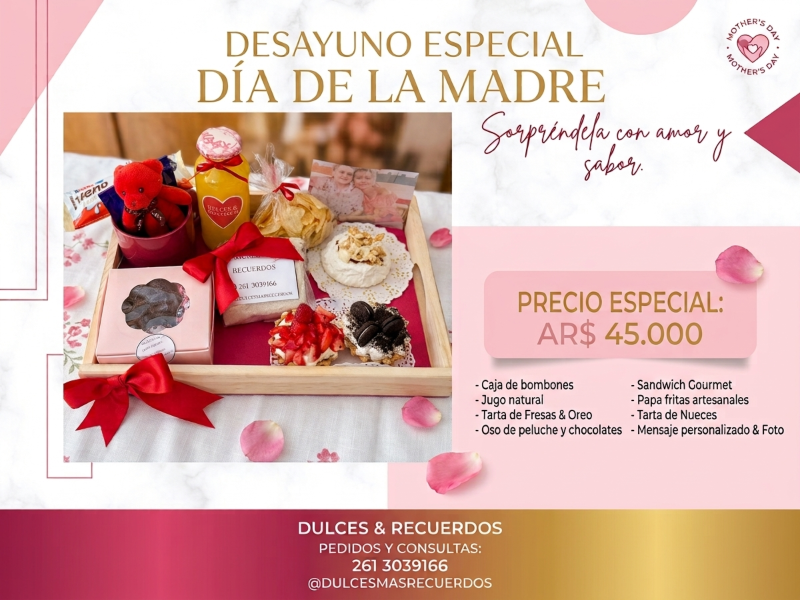
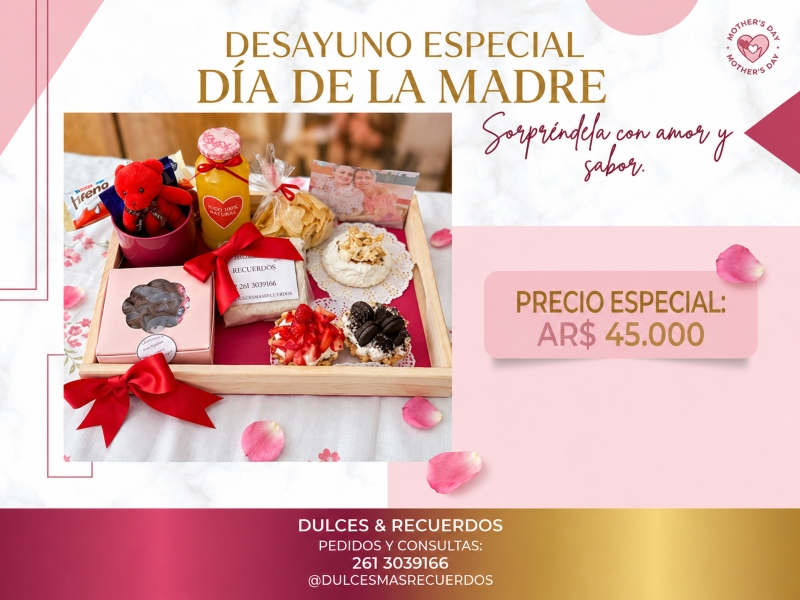
modificado texto y carrusel promo

diff --git a/index.html b/index.html
@@ -169,7 +169,9 @@
         <!-- ── Card 1 ── -->
         <article class="promo-especial__card reveal">
           <div class="promo-especial__imagen">
-            <div id="promoCarousel1" class="carousel slide promo-especial__carousel" data-bs-ride="false">
+
+            <!-- Carrusel principal -->
+            <div id="promoCarousel1" class="carousel slide promo-especial__carousel" data-bs-ride="carousel" data-bs-interval="3000">
               <div class="carousel-indicators">
                 <button type="button" data-bs-target="#promoCarousel1" data-bs-slide-to="0" class="active"></button>
                 <button type="button" data-bs-target="#promoCarousel1" data-bs-slide-to="1"></button>
@@ -193,15 +195,29 @@
                 <span class="carousel-control-next-icon" aria-hidden="true"></span>
               </button>
             </div>
+
+            <!-- Miniaturas Card 1 -->
+            <div class="promo-especial__thumbs">
+              <div class="promo-especial__thumb is-active" data-bs-target="#promoCarousel1" data-bs-slide-to="0">
+                <img src="./img/promo-madre-1.png" alt="Foto 1">
+              </div>
+              <div class="promo-especial__thumb" data-bs-target="#promoCarousel1" data-bs-slide-to="1">
+                <img src="./img/promo-madre-1b.png" alt="Foto 2">
+              </div>
+              <div class="promo-especial__thumb" data-bs-target="#promoCarousel1" data-bs-slide-to="2">
+                <img src="./img/promo-madre-1c.png" alt="Foto 3">
+              </div>
+            </div>
+
           </div>
           <div class="promo-especial__contenido">
-            <h3 class="promo-especial__nombre">Box Sorpresa Mamá</h3>
+            <h3 class="promo-especial__nombre">Bandeja Mediana Mamá</h3>
             <ul class="promo-especial__ingredientes">
-              <li>Café o té + medialunas artesanales y tostadas dulces</li>
-              <li>Mermeladas caseras + jugo natural exprimido</li>
-              <li>Tarjeta personalizada con dedicatoria especial</li>
-            </ul>
-            <p class="promo-especial__precio">$8.500</p>
+              <li>Bandeja c/patas, mantel, servilleta, taza cerámica, infusiones.</li>
+              <li>Brownie dulce de leche, crema y frutillas, tarta Oreo, Chocotorta, jugo en botella.</li>
+              <li>Bon o Bon, snack, dos facturas jamón y queso, Suculenta mini de regalo, tarjeta o foto personalizada.</li>
+            </ul>           
+            <p class="promo-especial__precio">$60.000</p>
             <a href="pages/pedidos.html" class="promo-especial__btn">Pedir ahora</a>
           </div>
         </article>
@@ -233,7 +249,9 @@
         <!-- ── Card 2 ── -->
         <article class="promo-especial__card reveal">
           <div class="promo-especial__imagen">
-            <div id="promoCarousel2" class="carousel slide promo-especial__carousel" data-bs-ride="false">
+
+            <!-- Carrusel principal -->
+            <div id="promoCarousel2" class="carousel slide promo-especial__carousel" data-bs-ride="carousel" data-bs-interval="3000">
               <div class="carousel-indicators">
                 <button type="button" data-bs-target="#promoCarousel2" data-bs-slide-to="0" class="active"></button>
                 <button type="button" data-bs-target="#promoCarousel2" data-bs-slide-to="1"></button>
@@ -241,13 +259,13 @@
               </div>
               <div class="carousel-inner" data-bs-toggle="modal" data-bs-target="#promoZoom2">
                 <div class="carousel-item active">
-                  <img src="./img/promo-madre-2.png" alt="Desayuno Para Dos">
+                  <img src="./img/promo-madre-2.png" alt="Promo Mamá Especial">
                 </div>
                 <div class="carousel-item">
-                  <img src="./img/promo-madre-2b.png" alt="Desayuno Para Dos - detalle">
+                  <img src="./img/promo-madre-2b.png" alt="Promo Mamá Especial - detalle">
                 </div>
                 <div class="carousel-item">
-                  <img src="./img/promo-madre-2c.png" alt="Desayuno Para Dos - contenido">
+                  <img src="./img/promo-madre-2c.png" alt="Promo Mamá Especial - contenido">
                 </div>
               </div>
               <button class="carousel-control-prev" type="button" data-bs-target="#promoCarousel2" data-bs-slide="prev">
@@ -257,15 +275,30 @@
                 <span class="carousel-control-next-icon" aria-hidden="true"></span>
               </button>
             </div>
+
+            <!-- Miniaturas Card 2 -->
+            <div class="promo-especial__thumbs">
+              <div class="promo-especial__thumb is-active" data-bs-target="#promoCarousel2" data-bs-slide-to="0">
+                <img src="./img/promo-madre-2.png" alt="Foto 1">
+              </div>
+              <div class="promo-especial__thumb" data-bs-target="#promoCarousel2" data-bs-slide-to="1">
+                <img src="./img/promo-madre-2b.png" alt="Foto 2">
+              </div>
+              <div class="promo-especial__thumb" data-bs-target="#promoCarousel2" data-bs-slide-to="2">
+                <img src="./img/promo-madre-2c.png" alt="Foto 3">
+              </div>
+            </div>
+
           </div>
           <div class="promo-especial__contenido">
-            <h3 class="promo-especial__nombre">Desayuno Para Dos — Mamá &amp; Vos</h3>
+            <h3 class="promo-especial__nombre">Promo Mamá Especial</h3>
             <ul class="promo-especial__ingredientes">
-              <li>Café, tés + medialunas, facturas y scones para dos</li>
-              <li>Mermeladas, queso crema + jugo natural para dos</li>
-              <li>Dedicatoria personalizada incluida</li>
+              <li>Caja de bombones y gomitas, jugo natural,tres mini tortas.</li>
+              <li>Oso de peluche,taza ceramica, sandwich gourmet, papas fritas artesanales.</li>
+              <li>Tarta de nueces, mensaje personalizado y foto(no incluye envio a domicilio).</li>
             </ul>
-            <p class="promo-especial__precio">$14.500</p>
+             
+            <p class="promo-especial__precio">$45.000</p>
             <a href="pages/pedidos.html" class="promo-especial__btn">Pedir ahora</a>
           </div>
         </article>
@@ -278,9 +311,9 @@
                 <button type="button" class="btn-close" data-bs-dismiss="modal" aria-label="Cerrar"></button>
                 <div id="promoZoomCarousel2" class="carousel slide" data-bs-ride="false">
                   <div class="carousel-inner">
-                    <div class="carousel-item active"><img src="./img/promo-madre-2.png" alt="Desayuno Para Dos"></div>
-                    <div class="carousel-item"><img src="./img/promo-madre-2b.png" alt="Desayuno Para Dos - detalle"></div>
-                    <div class="carousel-item"><img src="./img/promo-madre-2c.png" alt="Desayuno Para Dos - contenido"></div>
+                    <div class="carousel-item active"><img src="./img/promo-madre-2.png" alt="Promo Mamá Especial"></div>
+                    <div class="carousel-item"><img src="./img/promo-madre-2b.png" alt="Promo Mamá Especial - detalle"></div>
+                    <div class="carousel-item"><img src="./img/promo-madre-2c.png" alt="Promo Mamá Especial - contenido"></div>
                   </div>
                   <button class="carousel-control-prev" type="button" data-bs-target="#promoZoomCarousel2" data-bs-slide="prev">
                     <span class="carousel-control-prev-icon"></span>
@@ -391,7 +424,7 @@
           <a href="pages/box-dulces.html" class="footer__link">Box Dulces</a>
           <a href="pages/desayunos-kids.html" class="footer__link">🎈 Desayunos Kids</a>
           <a href="index.html#quienes-somos" class="footer__link">Quiénes Somos</a>
-          <a href="pages/terminos.html"                    class="footer__link">Términos y Condiciones</a>
+          <a href="pages/terminos.html" class="footer__link">Términos y Condiciones</a>
         </nav>
       </div>
       <div>

diff --git a/sass/pages/_index.scss b/sass/pages/_index.scss
@@ -254,6 +254,11 @@
     &:hover { transform: translateY(-4px); box-shadow: 0 16px 48px rgba(0,0,0,0.25); }
   }
 
+  // ── Zona imagen: carrusel + miniaturas
+  &__imagen {
+    background-color: rgba(0, 0, 0, 0.15);
+  }
+
   // ── Carrusel dentro de la card promo
   &__carousel {
     width: 100%;
@@ -300,8 +305,44 @@
     .carousel-control-next-icon { width: 1.2rem; height: 1.2rem; }
   }
 
+  // ── Tira de miniaturas
+  &__thumbs {
+    display: flex;
+    justify-content: center;
+    align-items: center;
+    gap: $space-xs;
+    padding: $space-xs $space-sm;
+    background-color: rgba(0, 0, 0, 0.2);
+  }
+
+  &__thumb {
+    width: 52px;
+    height: 52px;
+    border-radius: $radius-sm;
+    overflow: hidden;
+    border: 2px solid transparent;
+    cursor: pointer;
+    opacity: 0.55;
+    transition: opacity $trans-fast, border-color $trans-fast;
+    flex-shrink: 0;
+
+    img {
+      width: 100%;
+      height: 100%;
+      object-fit: cover;
+      display: block;
+    }
+
+    &:hover,
+    &.is-active {
+      opacity: 1;
+      border-color: $color-accent;
+    }
+  }
+
+  // ── Contenido de la card (título, ingredientes, precio, botón)
   &__contenido {
-    padding: $space-md;
+    padding: $space-xs $space-md $space-md;   // top reducido: xs (0.5rem) en vez de md (2rem)
     display: flex;
     flex-direction: column;
     gap: $space-sm;

diff --git a/js/main.js b/js/main.js
@@ -56,4 +56,33 @@ document.addEventListener('DOMContentLoaded', () => {
     }
   });
 
+  // ── Miniaturas cards promo (promo-especial)
+  // Sincroniza is-active entre thumbs y carrusel Bootstrap
+  document.querySelectorAll('.promo-especial__carousel').forEach(carouselEl => {
+    const id = carouselEl.id;
+    if (!id) return;
+
+    const thumbs = document.querySelectorAll(
+      `.promo-especial__thumb[data-bs-target="#${id}"]`
+    );
+    if (!thumbs.length) return;
+
+    // Click en miniatura → ir al slide
+    thumbs.forEach(thumb => {
+      thumb.addEventListener('click', () => {
+        const slideTo = parseInt(thumb.dataset.bsSlideTo, 10);
+        bootstrap.Carousel.getOrCreateInstance(carouselEl).to(slideTo);
+      });
+    });
+
+    // Carrusel cambia → mover is-active a la miniatura correspondiente
+    carouselEl.addEventListener('slid.bs.carousel', e => {
+      thumbs.forEach(t => t.classList.remove('is-active'));
+      const active = document.querySelector(
+        `.promo-especial__thumb[data-bs-target="#${id}"][data-bs-slide-to="${e.to}"]`
+      );
+      active?.classList.add('is-active');
+    });
+  });
+
 });

diff --git a/css/estilo.css b/css/estilo.css
@@ -871,6 +871,9 @@ button {
   transform: translateY(-4px);
   box-shadow: 0 16px 48px rgba(0, 0, 0, 0.25);
 }
+.promo-especial__imagen {
+  background-color: rgba(0, 0, 0, 0.15);
+}
 .promo-especial__carousel {
   width: 100%;
   height: 220px;
@@ -927,8 +930,37 @@ button {
   width: 1.2rem;
   height: 1.2rem;
 }
+.promo-especial__thumbs {
+  display: flex;
+  justify-content: center;
+  align-items: center;
+  gap: 0.5rem;
+  padding: 0.5rem 1rem;
+  background-color: rgba(0, 0, 0, 0.2);
+}
+.promo-especial__thumb {
+  width: 52px;
+  height: 52px;
+  border-radius: 8px;
+  overflow: hidden;
+  border: 2px solid transparent;
+  cursor: pointer;
+  opacity: 0.55;
+  transition: opacity 0.2s ease, border-color 0.2s ease;
+  flex-shrink: 0;
+}
+.promo-especial__thumb img {
+  width: 100%;
+  height: 100%;
+  object-fit: cover;
+  display: block;
+}
+.promo-especial__thumb:hover, .promo-especial__thumb.is-active {
+  opacity: 1;
+  border-color: #E8A33D;
+}
 .promo-especial__contenido {
-  padding: 2rem;
+  padding: 0.5rem 2rem 2rem;
   display: flex;
   flex-direction: column;
   gap: 1rem;
